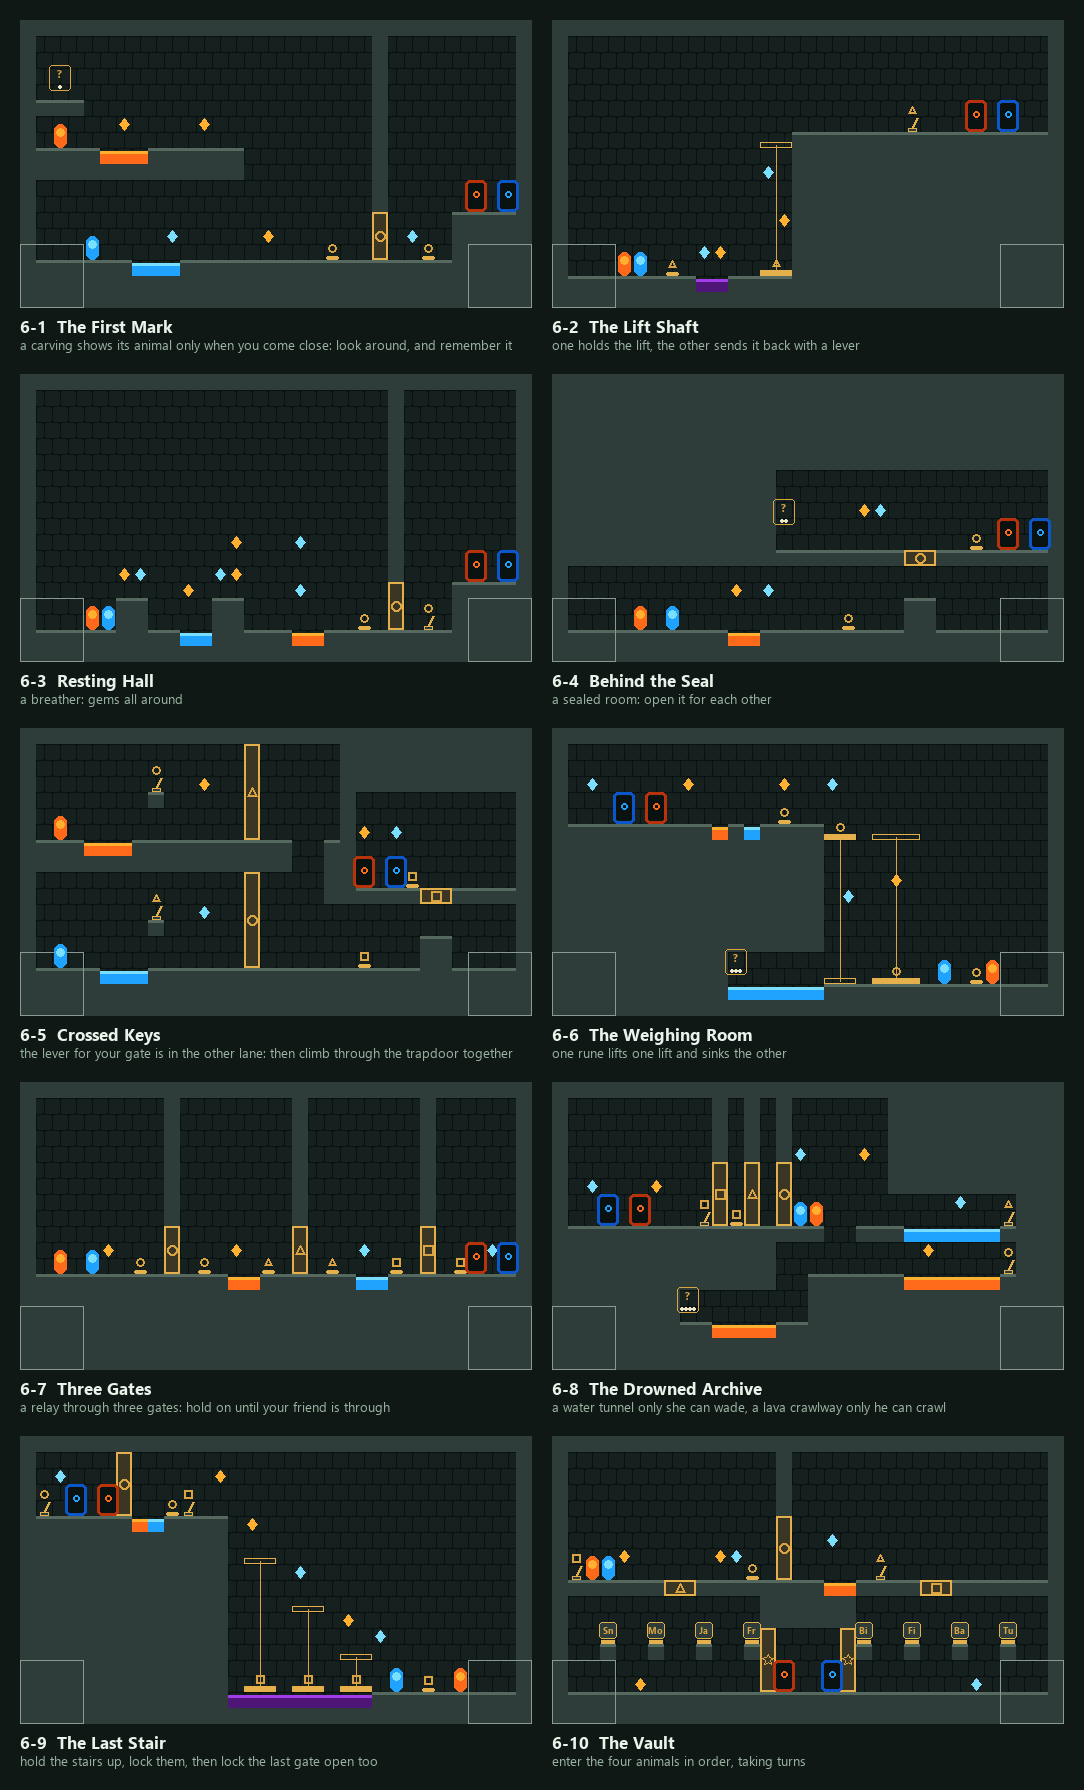
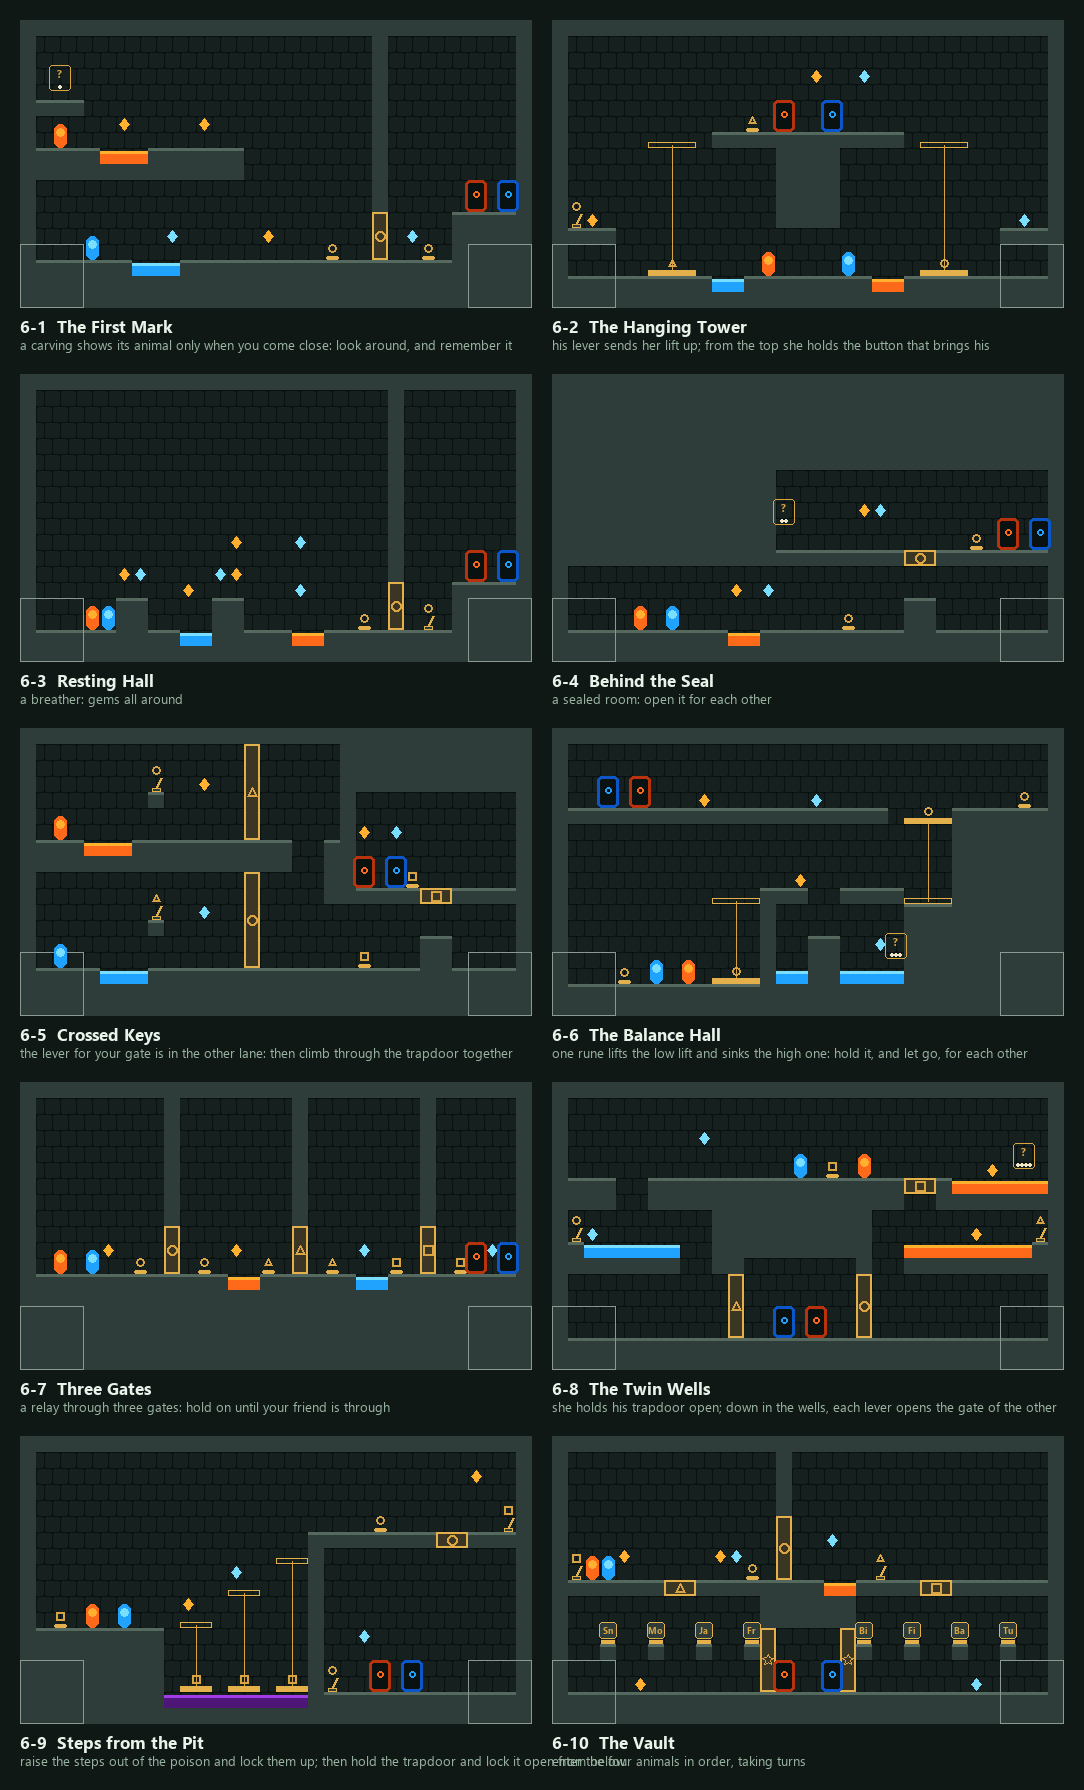
Remake: Chapter 6's look-alike levels are new rooms (6-2, 6-6, 6-8, 6-9)
The Hanging Tower, The Balance Hall, The Twin Wells, Steps from the Pit (D14).

diff --git a/src/game/chapter6.ts b/src/game/chapter6.ts
@@ -44,34 +44,37 @@ export const CHAPTER_6: LevelDef[] = [
   },
   {
     id: '6-2',
-    name: 'The Lift Shaft',
-    idea: 'one holds the lift, the other sends it back with a lever',
-    targetTime: 40,
+    name: 'The Hanging Tower',
+    idea: 'his lever sends her lift up; from the top she holds the button that brings his',
+    targetTime: 35,
     teamCode: 6,
     rows: [
       '################################',
       '#..............................#',
       '#..............................#',
+      '#...............r..b...........#',
       '#..............................#',
       '#..............................#',
+      '#.............H..C.............#',
+      '#.........############.........#',
+      '#.............####.............#',
+      '#.............####.............#',
+      '#.............####.............#',
+      '#.............####.............#',
+      '#.r...........####...........b.#',
+      '####........................####',
       '#..............................#',
-      '#.........................H.C..#',
-      '#..............#################',
-      '#..............#################',
-      '#............b.#################',
-      '#..............#################',
-      '#..............#################',
-      '#.............r#################',
-      '#..............#################',
-      '#........br....#################',
-      '#...hc.........#################',
-      '#########PP#####################',
+      '#............h....c............#',
+      '##########WW########LL##########',
       '################################',
     ],
     mechs: [
-      { kind: 'button', x: 7, y: 15, rune: 'triangle' },
-      { kind: 'platform', x: 13, y: 15, w: 2, to: [13, 7], rune: 'triangle' },
-      { kind: 'lever', x: 22, y: 6, rune: 'triangle' },
+      // a lift on each side of the tower. His lever (on the shelf by his wall) sends HER lift; the button on the
+      // tower top brings HIS. Each lift stands one tile clear of the tower's top, so nobody can be caught under it.
+      { kind: 'lever', x: 1, y: 12, rune: 'circle' },
+      { kind: 'platform', x: 23, y: 15, w: 3, to: [23, 7], rune: 'circle' },
+      { kind: 'button', x: 12, y: 6, rune: 'triangle' },
+      { kind: 'platform', x: 6, y: 15, w: 3, to: [6, 7], rune: 'triangle' },
     ],
   },
   {
@@ -180,38 +183,40 @@ export const CHAPTER_6: LevelDef[] = [
   },
   {
     id: '6-6',
-    name: 'The Weighing Room',
-    idea: 'one rune lifts one lift and sinks the other',
+    name: 'The Balance Hall',
+    idea: 'one rune lifts the low lift and sinks the high one: hold it, and let go, for each other',
     targetTime: 50,
     teamCode: 6,
     rows: [
       '################################',
       '#..............................#',
       '#..............................#',
-      '#.b.....r.....r..b.............#',
       '#..............................#',
-      '#...C.H........................#',
-      '##########L#W####..............#',
-      '#################..............#',
-      '#################..............#',
-      '#################....r.........#',
-      '#################.b............#',
-      '#################..............#',
-      '#################..............#',
-      '#################..............#',
-      '###########....................#',
-      '###########.............c..h...#',
-      '###########WWWWWW###############',
+      '#..C.H...r......b..............#',
+      '#####################....#######',
+      '#........................#######',
+      '#........................#######',
+      '#........................#######',
+      '#..............r.........#######',
+      '#............###..####...#######',
+      '#............#........##########',
+      '#............#........##########',
+      '#............#..##..b.##########',
+      '#............#..##....##########',
+      '#.....c.h....#WW##WWWW##########',
+      '################################',
       '################################',
     ],
     mechs: [
-      // the counterweight (4-2, mirrored): powered, the right lift rises and the left one sinks
-      { kind: 'button', x: 26, y: 15, rune: 'circle' },
-      { kind: 'platform', x: 20, y: 15, w: 3, to: [20, 6], rune: 'circle' },
-      { kind: 'platform', x: 17, y: 6, w: 2, to: [17, 15], rune: 'circle' },
-      { kind: 'button', x: 14, y: 5, rune: 'circle' },
-      // at the end of a low, flooded tunnel: only Cool Girl can wade in
-      { kind: 'carving', x: 11, y: 14, animal: 'snake', dots: 3 },
+      // the counterweight: while the rune is on, the low lift (floor to the middle floor) is up and the high lift
+      // (middle floor to the top) is down. A button on the floor and one on the top, so each holds for the other.
+      // Every lift stop is 5 tiles from the next floor (7.7: clearly too high to jump, so the lifts are needed).
+      { kind: 'button', x: 4, y: 15, rune: 'circle' },
+      { kind: 'platform', x: 10, y: 15, w: 3, to: [10, 10], rune: 'circle' },
+      { kind: 'platform', x: 22, y: 5, w: 3, to: [22, 10], rune: 'circle' },
+      { kind: 'button', x: 29, y: 4, rune: 'circle' },
+      // in the flooded cellar under the middle floor, at its far end: down the hole, and only Cool Girl can wade there
+      { kind: 'carving', x: 21, y: 13, animal: 'snake', dots: 3 },
     ],
   },
   {
@@ -255,81 +260,80 @@ export const CHAPTER_6: LevelDef[] = [
   },
   {
     id: '6-8',
-    name: 'The Drowned Archive',
-    idea: 'a water tunnel only she can wade, a lava crawlway only he can crawl',
-    targetTime: 55,
+    name: 'The Twin Wells',
+    idea: 'she holds his trapdoor open; down in the wells, each lever opens the gate of the other',
+    targetTime: 20,
     teamCode: 6,
     rows: [
       '################################',
-      '#.........#.#.#......###########',
-      '#.........#.#.#......###########',
-      '#.........#.#.#......###########',
-      '#.........#.#.#b...r.###########',
-      '#....................###########',
-      '#.b...r..............###########',
-      '#........................b...###',
-      '#..C.H.........ch............###',
-      '#################..###WWWWWW####',
-      '##############.........r.....###',
-      '##############...............###',
-      '##############..######LLLLLL####',
-      '########........################',
-      '########........################',
-      '##########LLLL##################',
+      '#..............................#',
+      '#..............................#',
+      '#........b.....................#',
+      '#..............................#',
+      '#..............c...h.......r...#',
+      '####..################..#LLLLLL#',
+      '####..################..########',
+      '#.........##########...........#',
+      '#.b.......##########......r....#',
+      '##WWWWWW..##########..LLLLLLLL##',
+      '########..##.......#..##########',
+      '#..............................#',
+      '#..............................#',
+      '#..............................#',
+      '#.............C.H..............#',
       '################################',
       '################################',
     ],
     mechs: [
-      // three seals (3-4, mirrored): a lever at the end of the water tunnel (only she), one at the end of the lava
-      // crawlway (only he), and a button-and-lever seal at the end
-      { kind: 'lever', x: 28, y: 11, rune: 'circle' },
-      { kind: 'lever', x: 28, y: 8, rune: 'triangle' },
-      { kind: 'gate', x: 14, y: 5, w: 1, h: 4, rune: 'circle' },
-      { kind: 'gate', x: 12, y: 5, w: 1, h: 4, rune: 'triangle' },
-      { kind: 'button', x: 11, y: 8, rune: 'square' },
-      { kind: 'gate', x: 10, y: 5, w: 1, h: 4, rune: 'square' },
-      { kind: 'lever', x: 9, y: 8, rune: 'square' },
-      // down a second shaft off the crawlway, past more lava: a dead end only Hot Boy reaches
-      { kind: 'carving', x: 8, y: 13, animal: 'snake', dots: 4 },
+      // the top hall: her shaft is open (water below, only she lives), his is a trapdoor held by a button 5 tiles away
+      { kind: 'button', x: 17, y: 5, rune: 'square' },
+      { kind: 'gate', x: 22, y: 6, w: 2, h: 1, rune: 'square' },
+      // each tunnel ends in a lever (a dead end: one step, one flip) that opens the OTHER player's gate to the doors
+      { kind: 'lever', x: 1, y: 9, rune: 'circle' },
+      { kind: 'lever', x: 30, y: 9, rune: 'triangle' },
+      { kind: 'gate', x: 11, y: 12, w: 1, h: 4, rune: 'triangle' },
+      { kind: 'gate', x: 19, y: 12, w: 1, h: 4, rune: 'circle' },
+      // at the far end of the lava pool in the top hall: only Hot Boy can wade there
+      { kind: 'carving', x: 29, y: 4, animal: 'snake', dots: 4 },
     ],
   },
   {
     id: '6-9',
-    name: 'The Last Stair',
-    idea: 'hold the stairs up, lock them, then lock the last gate open too',
-    targetTime: 50,
+    name: 'Steps from the Pit',
+    idea: 'raise the steps out of the poison and lock them up; then hold the trapdoor and lock it open from below',
+    targetTime: 40,
     teamCode: 6,
     rows: [
       '################################',
       '#..............................#',
-      '#.b.........r..................#',
+      '#...........................r..#',
       '#..............................#',
-      '#..C.H.........................#',
-      '#######LW####.r................#',
-      '#############..................#',
-      '#############..................#',
-      '#############....b.............#',
-      '#############..................#',
-      '#############..................#',
-      '#############.......r..........#',
-      '#############.........b........#',
-      '#############..................#',
-      '#############..................#',
-      '#############..........c...h...#',
-      '#############PPPPPPPPP##########',
+      '#..............................#',
+      '#..............................#',
+      '#.................########..####',
+      '#.................#............#',
+      '#............b....#............#',
+      '#.................#............#',
+      '#.........r.......#............#',
+      '#...h.c...........#............#',
+      '#########.........#..b.........#',
+      '#########.........#............#',
+      '#########.........#............#',
+      '#########.........#...H.C......#',
+      '#########PPPPPPPPP##############',
       '################################',
     ],
     mechs: [
-      // the stairway (3-2, mirrored): one button raises three platforms over the poison, a lever at the top locks them
-      { kind: 'button', x: 25, y: 15, rune: 'square' },
-      { kind: 'platform', x: 20, y: 15, w: 2, to: [20, 13], rune: 'square' },
-      { kind: 'platform', x: 17, y: 15, w: 2, to: [17, 10], rune: 'square' },
-      { kind: 'platform', x: 14, y: 15, w: 2, to: [14, 7], rune: 'square' },
-      { kind: 'lever', x: 10, y: 4, rune: 'square' },
-      // and the last gate before the doors (3-3): one holds the button, the other locks it open from the far side
-      { kind: 'button', x: 9, y: 4, rune: 'circle' },
-      { kind: 'gate', x: 6, y: 1, w: 1, h: 4, rune: 'circle' },
-      { kind: 'lever', x: 1, y: 4, rune: 'circle' },
+      // her button raises three steps out of the poison pit; the lever at the far end of the high rim locks them up
+      { kind: 'button', x: 2, y: 11, rune: 'square' },
+      { kind: 'platform', x: 10, y: 15, w: 2, to: [10, 11], rune: 'square' },
+      { kind: 'platform', x: 13, y: 15, w: 2, to: [13, 9], rune: 'square' },
+      { kind: 'platform', x: 16, y: 15, w: 2, to: [16, 7], rune: 'square' },
+      { kind: 'lever', x: 30, y: 5, rune: 'square' },
+      // the trapdoor down to the doors: he holds its button, she drops and locks it open with the lever in the corner below
+      { kind: 'button', x: 22, y: 5, rune: 'circle' },
+      { kind: 'gate', x: 26, y: 6, w: 2, h: 1, rune: 'circle' },
+      { kind: 'lever', x: 19, y: 15, rune: 'circle' },
     ],
   },
   // the vault is the chapter's last level (it was 6-5 until 2026-11-12; saved results moved with it, progress.ts)

diff --git a/tools/routes/ch6.ts b/tools/routes/ch6.ts
@@ -3,4 +3,40 @@
 import { enteredAt, gateOpen, gateShut, heard, jump, pause, platAt, say, to, until, type Cmd, type Route } from '../sim.ts';
 
 export const ROUTES_6: Record<string, Route | (() => Route)> = {
+  // 6-2 The Hanging Tower: he jumps the water onto his lift, on to the lever shelf, and flips it once she stands on
+  // her lift; she rides up, takes the button on the tower top, and that brings his lift up.
+  '6-2': {
+    fire: [jump(7.5, { at: 12.6 }), jump(3.0, { at: 6.4 }), to(2.6), heard('she is on her lift'), to(1.5), to(3.7), to(4.6), jump(7.5), say('he is on his lift'),
+      platAt(1, 1), to(8.5), jump(10.6), to(16.5), jump(16.5), to(14.5)],
+    water: [jump(24.5, { at: 19.4 }), jump(28.6, { at: 25.6 }), to(29.5), to(27.4), jump(24.5), say('she is on her lift'), platAt(0, 1), to(23.5), jump(21.4),
+      to(19.5), jump(19.5), to(12.5), heard('he is on his lift'), until('he is up', (w) => w.body.fire.y < 7.1 && w.body.fire.x > 9.9), to(17.5)],
+  },
+  // 6-6 The Weighing Room: she rides the low lift while he holds the floor button, reads the carving in the flooded
+  // cellar, steps onto the sunk high lift; he lets go (it rises with her, the low lift drops for him); she holds the
+  // top button (his low lift rises, the high lift sinks for him); she lets go and it brings him up.
+  '6-6': {
+    fire: [heard('she is on the low lift'), to(4.5), say('he holds'), heard('she is on the high lift'), to(9.3), platAt(0, 0), jump(11.5),
+      say('he is on the low lift'), platAt(0, 1), to(15.5), jump(19.0, { at: 15.6 }), to(21.4), platAt(1, 1), to(23.5), say('he is on the high lift'),
+      platAt(1, 0), to(22.4), jump(19.5, { at: 22.4 }), to(5.5)],
+    water: [to(9.3), jump(11.5), say('she is on the low lift'), heard('he holds'), platAt(0, 1), to(14.5), to(16.6), to(20.5),
+      to(18.4), jump(17.0), jump(18.8), to(21.4), to(23.5), say('she is on the high lift'), platAt(1, 0), heard('he is on the low lift'), to(29.5),
+      heard('he is on the high lift'), to(26.5), platAt(1, 0), to(22.4), jump(19.5, { at: 22.4 }), to(3.5)],
+  },
+  // 6-8 The Twin Wells: he wades the top pool to read the carving, then stands on his trapdoor; she holds its button
+  // and he drops into the lava well, walks to his lever (her gate) and drops out to the right. She drops down her
+  // open water well to her lever (his gate) and out to the left. They meet at the doors.
+  '6-8': {
+    fire: [to(29.5), to(22.6), say('he is on the trapdoor'), until('he is down', (w) => w.body.fire.y > 9.5), to(30.4), to(20.7), gateOpen(2), to(16.5)],
+    water: [to(17.5), heard('he is on the trapdoor'), until('he is down', (w) => w.body.fire.y > 9.5), to(10.4), jump(9.5), to(4.5), to(1.5), to(8.6),
+      gateOpen(1), to(14.5)],
+  },
+  // 6-9 Steps from the Pit: she holds the button, he climbs the three steps and locks them with the lever at the
+  // far end of the rim (a jump on the way for his gem); she climbs. He holds the trapdoor button, she drops and locks
+  // it open with the lever in the corner below, and he drops after her.
+  '6-9': {
+    fire: [heard('she holds'), platAt(2, 1), to(8.4), jump(10.8), jump(13.6), jump(16.6), jump(19.0), to(28.5), jump(28.5), to(30.4), say('locked'),
+      to(22.5), say('he holds'), heard('she locked it'), to(26.6), to(22.5)],
+    water: [to(2.5), say('she holds'), heard('locked'), to(8.4), jump(10.8), jump(13.6), jump(16.6), jump(19.0), heard('he holds'), gateOpen(0), to(26.6),
+      to(19.5), say('she locked it'), to(21.5), jump(21.5), to(24.5)],
+  },
 };

diff --git a/docs/levels/remake-ch6.md b/docs/levels/remake-ch6.md
@@ -1,0 +1,23 @@
+#### The remake (2026-11-17, D14)
+Four levels of Chapter 6 were copies of older rooms (6-2 was 1-4's lift room, 6-6 was 4-2's counterweight room, 6-8 was 3-4 mirrored, 6-9 was 3-2 mirrored). Each one now has a brand-new room. Each new room still teaches what the old one taught, with the same simple parts (buttons, levers, lifts, gates, pools). 6-1, 6-3, 6-4, 6-5, 6-7 and 6-10 did not change. Picture: [`docs/levels/chapter6.png`](levels/chapter6.png).
+
+| # | Name | The room | What each player does |
+|---|---|---|---|
+| 2 | **The Hanging Tower** | A stone tower hangs from the middle of the room with the doors on its top. There is a lift on each side of it, a water pool on his side and a lava pool on hers. | He jumps the water onto his lift and climbs to a little shelf with a lever. The lever sends HER lift up. She rides it to the tower top and stands on the button there, which brings HIS lift up. |
+| 6 | **The Balance Hall** | Three floors: the start room at the bottom, a middle floor with a flooded cellar under it, and the door hall at the top. A low lift goes from the bottom to the middle floor, and a high lift from the middle floor to the top. | One rune moves both lifts in opposite ways: when it is on, the low lift goes up and the high lift goes down. He holds the floor button while she rides the low lift up and steps onto the high lift. Then he lets go: her lift rises and his comes back down. She holds the top button so his lift rises and the high lift comes down for him. Then she lets go and it carries him up. |
+| 8 | **The Twin Wells** | A long top hall above two wells: a water well on the left and a lava well on the right. The door room is underneath. | She holds a button while he drops through his trapdoor into the lava well. She drops down her open water well. Each walks to the lever at the end of their well, and each lever opens the OTHER player's gate into the door room. |
+| 9 | **Steps from the Pit** | A deep poison pit between a low left rim and a high right rim. The doors are in a room under the right rim. | She holds the button that raises three steps out of the poison. He climbs them and steps on the lever at the far end of the rim, which locks the steps up, and then she climbs. Now he holds the trapdoor button, she drops into the door room and locks the trapdoor open with the lever in the corner, and he drops after her. |
+
+**Where the two carvings are now** (same dots as before; from far away a carving is only a blank plaque):
+- **6-6, 3 dots:** in the flooded cellar under the middle floor, at its far end. Only Cool Girl can wade there (she drops through the hole and climbs back out over a stone pillar). A water gem next to it tempts her.
+- **6-8, 4 dots:** at the far end of a lava pool in the top hall, past his trapdoor. The pool is 6 tiles wide, too wide to jump, so only Hot Boy can wade there. A fire gem in the pool tempts him.
+
+The route robot visits both carvings. A shorter version of each solution, without the visit, still wins and never comes closer than 4.25 tiles (6-6) or 4.75 tiles (6-8) to the carving (it lights at 2.6 tiles), so the team only finds it if they go and look.
+
+**Proven winnable:** all ten levels of Chapter 6 pass the route robot, and every gem in the four new rooms is collected. Robot times and star times (about 2.5–3× the robot): 6-2 13.0 s → **35 s**, 6-6 18.0 s → **50 s**, 6-8 7.5 s → **20 s**, 6-9 14.9 s → **40 s**. These are first guesses (D12). The look-alike robot puts each new room well under the limit: 6-2 49% (closest 5-3), 6-6 62% (3-2), 6-8 46% (5-3), 6-9 53% (2-4).
+
+**Lessons worth keeping:**
+- **A trapdoor that is closing is already solid on top.** The moment someone steps off its button, you land on it instead of falling through. So a trapdoor whose button is a few tiles away always needs a friend to hold the button (6-8, 6-9), and nobody can "run for it" alone.
+- **Every lift stop is 5 tiles from the next floor in 6-6, never 4** (rule 7.7): 5 is clearly too high to jump, so everyone sees that the lift is needed. A 4-tile gap looks almost jumpable and only frustrates.
+- **Put a lift's top stop one tile clear of any ledge** (6-2). Then nobody standing under the ledge can get caught by a lift coming up.
+- **For a lever that locks something, use a dead end** (the far end of a rim or well) or a little shelf. Then the lever flips once and nobody walks back over it.
